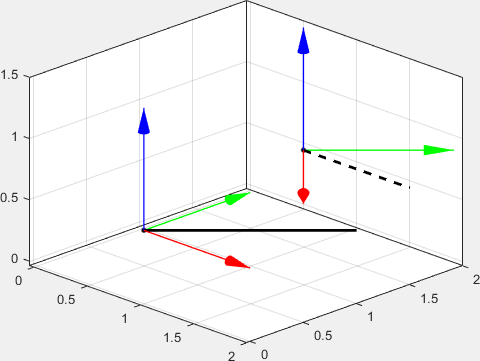
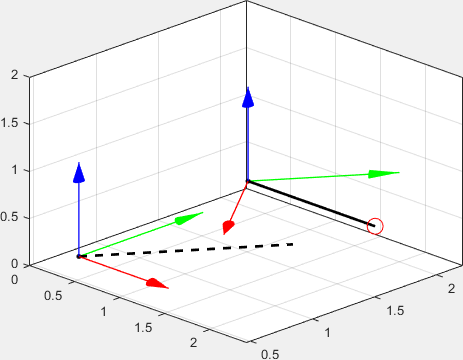
Update plot styles in readme

diff --git a/README.md b/README.md
@@ -58,7 +58,7 @@ We'll plot the same `[1 1 0]` position vector into the local coordinates of each
 
 ```matlab
 % plot the point described above in two equivalent ways (note the parent changing)
-plot3(robot.hgtransform(), [0 1], [0 1], [0 0], 'k--', 'LineWidth', 2)
+plot3(robot.hgtransform(), [0 1], [0 1], [0 0], 'k-', 'LineWidth', 2)
 plot3(world.hgtransform(), p_world(1), p_world(2), p_world(3), 'ro', 'MarkerSize', 12)
 
 % also draw the `[1 1 0]` vector expressed in the world frame
